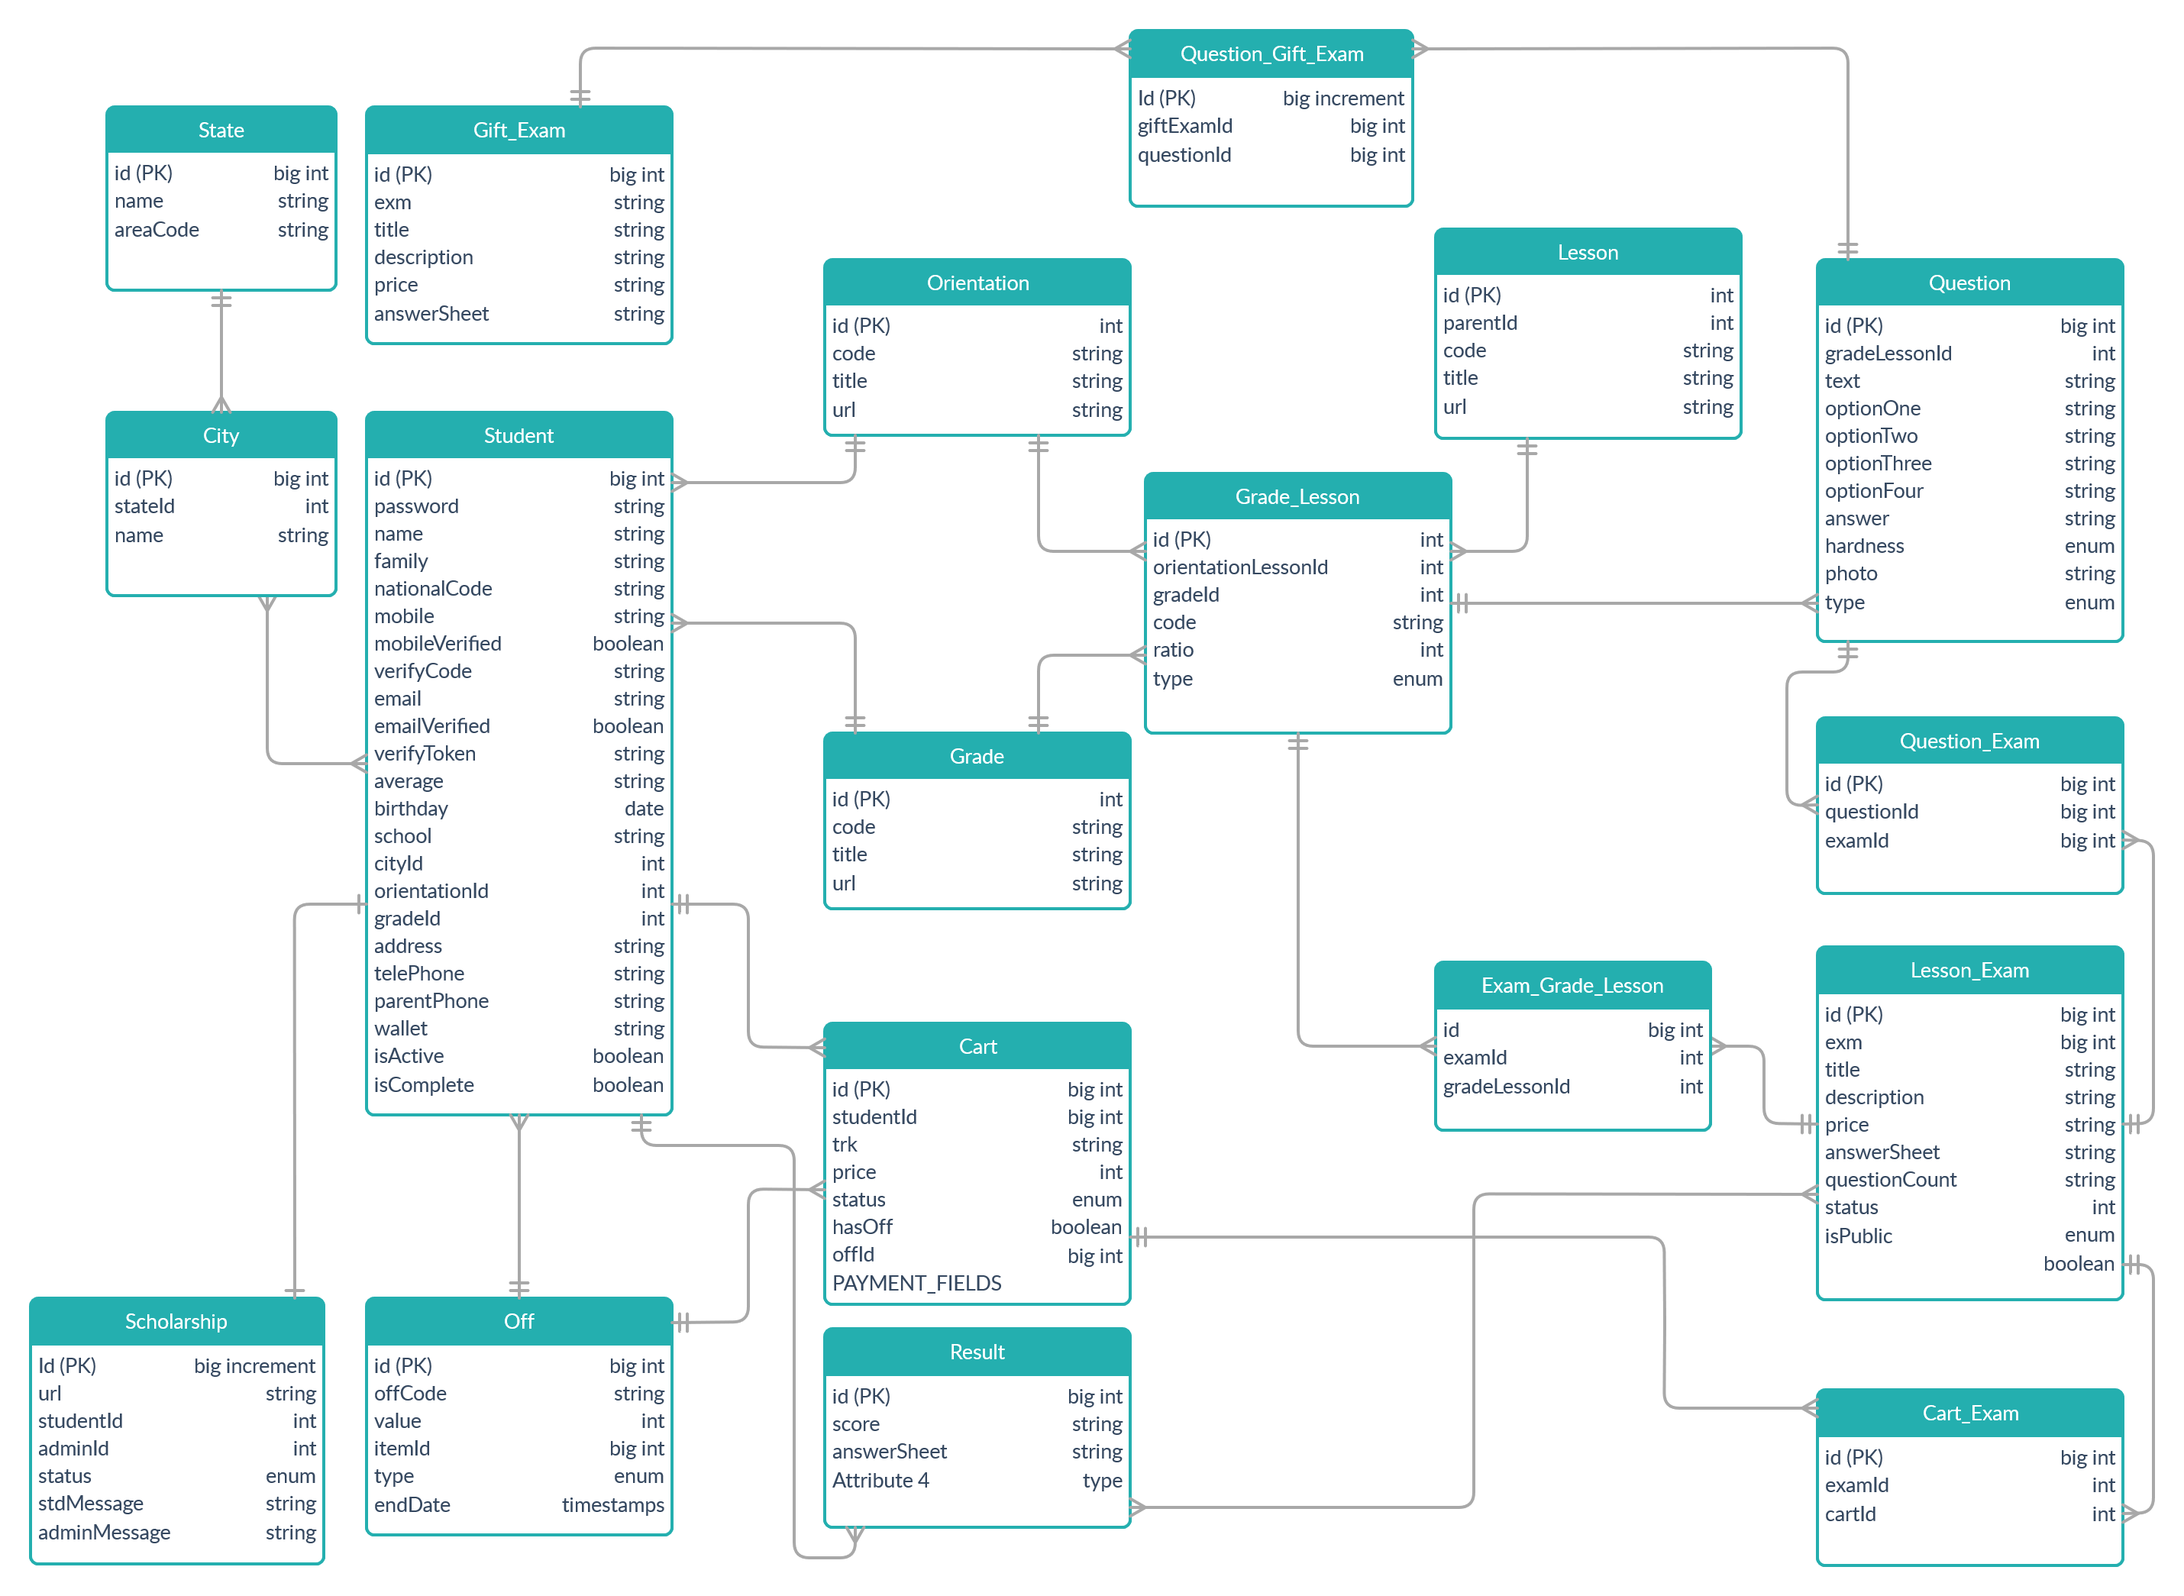
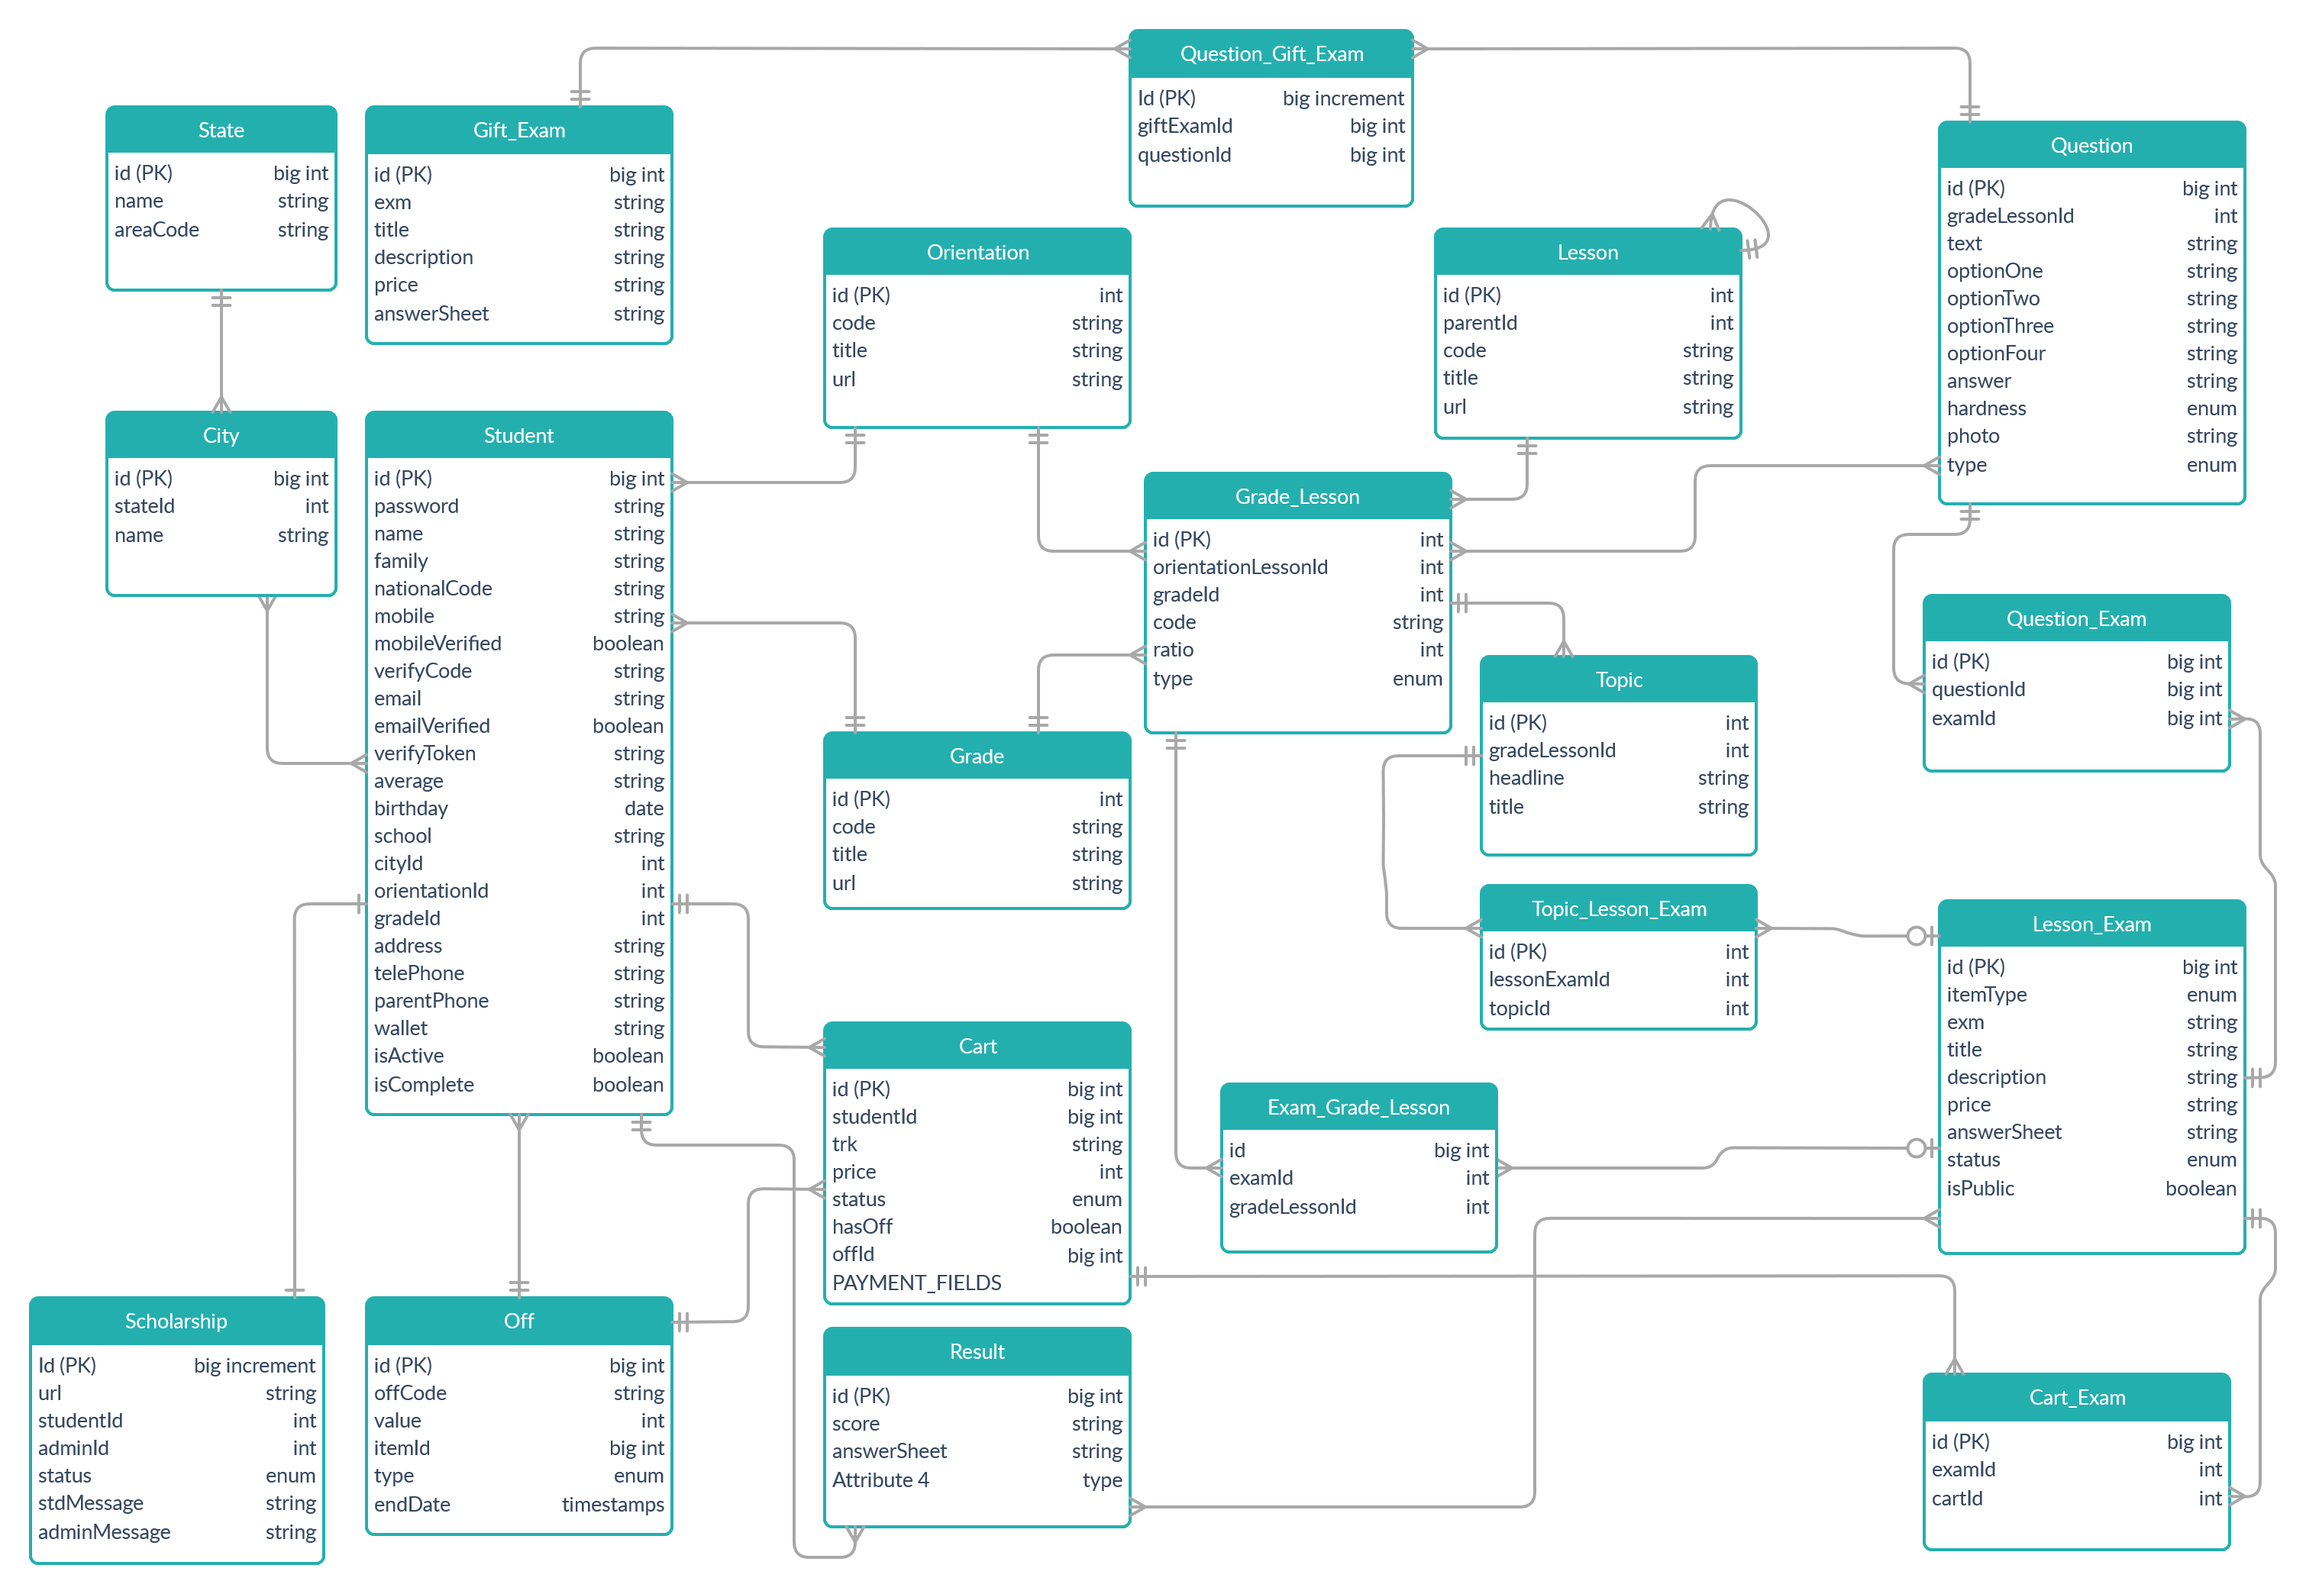
add topic for gradeLessonId = 1

diff --git a/database/seeds/TopicTableSeeder.php b/database/seeds/TopicTableSeeder.php
@@ -1,0 +1,177 @@
+<?php
+
+use Illuminate\Database\Seeder;
+use App\model\Topic;
+
+
+class TopicTableSeeder extends Seeder
+{
+	/**
+	 * Run the database seeds.
+	 *
+	 * @return void
+	 */
+	public function run()
+	{
+		//farsi 10
+
+		//id 1
+		$topic                = new Topic();
+		$topic->gradeLessonId = 1;
+		$topic->headLine      = 'ستایش';
+		$topic->title         = 'به نام کردگار';
+		$topic->save();
+
+
+		//id 2
+		$topic                = new Topic();
+		$topic->gradeLessonId = 1;
+		$topic->headLine      = 'فصل یکم: ادبیات تعلیمی';
+		$topic->title         = 'درس یکم: چشمه';
+		$topic->save();
+
+
+		//id 3
+		$topic                = new Topic();
+		$topic->gradeLessonId = 1;
+		$topic->headLine      = 'فصل یکم: ادبیات تعلیمی';
+		$topic->title         = 'درس دوم : از آموختن، ننگ مدار';
+		$topic->save();
+
+
+		//id 4
+		$topic                = new Topic();
+		$topic->gradeLessonId = 1;
+		$topic->headLine      = 'فصل دوم: ادبیات سفر و زندگی';
+		$topic->title         = 'درس سوم: سفر به بصره';
+		$topic->save();
+
+
+		//id 5
+		$topic                = new Topic();
+		$topic->gradeLessonId = 1;
+		$topic->headLine      = 'فصل دوم: ادبیات سفر و زندگی';
+		$topic->title         = 'درس چهارم: درس آزاد (ادبیات بومی 1)';
+		$topic->save();
+
+
+		//id 6
+		$topic                = new Topic();
+		$topic->gradeLessonId = 1;
+		$topic->headLine      = 'فصل دوم: ادبیات سفر و زندگی';
+		$topic->title         = 'درس پنجم: کلاس نقّاشی';
+		$topic->save();
+
+
+		//id 7
+		$topic                = new Topic();
+		$topic->gradeLessonId = 1;
+		$topic->headLine      = 'فصل سوم: ادبیات غنایی';
+		$topic->title         = 'درس ششم: مهر و وفا';
+		$topic->save();
+
+
+		//id 8
+		$topic                = new Topic();
+		$topic->gradeLessonId = 1;
+		$topic->headLine      = 'فصل سوم: ادبیات غنایی';
+		$topic->title         = 'درس هفتم: جمال و کمال';
+		$topic->save();
+
+
+		//id 9
+		$topic                = new Topic();
+		$topic->gradeLessonId = 1;
+		$topic->headLine      = 'فصل چهارم: ادبیات پایداری';
+		$topic->title         = 'درس هشتم: پاسداری از حقیقت';
+		$topic->save();
+
+
+		//id 10
+		$topic                = new Topic();
+		$topic->gradeLessonId = 1;
+		$topic->headLine      = 'فصل چهارم: ادبیات پایداری';
+		$topic->title         = 'درس نهم: بیداد ظالمان';
+		$topic->save();
+
+
+		//id 11
+		$topic                = new Topic();
+		$topic->gradeLessonId = 1;
+		$topic->headLine      = 'فصل پنجم: ادبیات انقلاب اسلامی';
+		$topic->title         = 'درس دهم: دریادلان صف شکن';
+		$topic->save();
+
+
+		//id 12
+		$topic                = new Topic();
+		$topic->gradeLessonId = 1;
+		$topic->headLine      = 'فصل پنجم: ادبیات انقلاب اسلامی';
+		$topic->title         = 'درس یازدهم: خاک آزادگان';
+		$topic->save();
+
+
+		//id 13
+		$topic                = new Topic();
+		$topic->gradeLessonId = 1;
+		$topic->headLine      = 'فصل ششم: ادبیات حماسی';
+		$topic->title         = 'درس دوازدهم: رستم و اشکبوس';
+		$topic->save();
+
+
+		//id 14
+		$topic                = new Topic();
+		$topic->gradeLessonId = 1;
+		$topic->headLine      = 'فصل ششم: ادبیات حماسی';
+		$topic->title         = 'درس سیزدهم: گُردآفرید';
+		$topic->save();
+
+
+		//id 15
+		$topic                = new Topic();
+		$topic->gradeLessonId = 1;
+		$topic->headLine      = 'فصل هفتم: ادبیات داستانی';
+		$topic->title         = 'درس چهاردهم: طوطی و بقّال';
+		$topic->save();
+
+
+		//id 16
+		$topic                = new Topic();
+		$topic->gradeLessonId = 1;
+		$topic->headLine      = 'فصل هفتم: ادبیات داستانی';
+		$topic->title         = 'درس پانزدهم: درس آزاد (ادبیات بومی ٢)';
+		$topic->save();
+
+
+		//id 17
+		$topic                = new Topic();
+		$topic->gradeLessonId = 1;
+		$topic->headLine      = 'فصل هفتم: ادبیات داستانی';
+		$topic->title         = 'درس شانزدهم: خسرو';
+		$topic->save();
+
+
+		//id 18
+		$topic                = new Topic();
+		$topic->gradeLessonId = 1;
+		$topic->headLine      = 'فصل هشتم: ادبیات جهان';
+		$topic->title         = 'درس هفدهم: سپیده دم';
+		$topic->save();
+
+
+		//id 19
+		$topic                = new Topic();
+		$topic->gradeLessonId = 1;
+		$topic->headLine      = 'فصل هشتم: ادبیات جهان';
+		$topic->title         = 'درس هجدهم: عظمتِ نگاه';
+		$topic->save();
+
+
+		//id 20
+		$topic                = new Topic();
+		$topic->gradeLessonId = 1;
+		$topic->headLine      = 'نیایش';
+		$topic->title         = 'الهی';
+		$topic->save();
+	}
+}

diff --git a/database/migrations/2019_08_10_132304_create_lesson_exam_table.php b/database/migrations/2019_08_10_132304_create_lesson_exam_table.php
@@ -17,13 +17,13 @@ class CreateLessonExamTable extends Migration
 		Schema::create('lesson_exam', function(Blueprint $table)
 		{
 			$table->bigIncrements('id');
+			$table->enum('itemType', ['LESSON', 'TOPIC']);
 			$table->string('exm')->nullable();
 			$table->string('title');
 			$table->string('description')->nullable();
 			$table->integer('price')->default(0);
 			$table->string('answerSheet')->nullable();
-			$table->bigInteger('questionCount')->default(0);
-			$table->enum('status',['COMPLETE','IN-QUESTION','IN-COMPLETE']);
+			$table->enum('status', ['COMPLETE', 'IN-QUESTION', 'IN-COMPLETE']);
 			$table->boolean('isPublic')->default(false);
 			$table->timestamps();
 			$table->softDeletes();

diff --git a/database/migrations/2019_09_15_134756_create_topic_table.php b/database/migrations/2019_09_15_134756_create_topic_table.php
@@ -1,0 +1,39 @@
+<?php
+
+use Illuminate\Support\Facades\Schema;
+use Illuminate\Database\Schema\Blueprint;
+use Illuminate\Database\Migrations\Migration;
+
+
+class CreateTopicTable extends Migration
+{
+	/**
+	 * Run the migrations.
+	 *
+	 * @return void
+	 */
+	public function up()
+	{
+		Schema::create('topic', function(Blueprint $table)
+		{
+			$table->bigIncrements('id');
+			$table->integer('gradeLessonId');
+			$table->string('headLine')->nullable();
+			$table->string('title');
+			$table->timestamps();
+			$table->softDeletes();
+		});
+	}
+
+
+
+	/**
+	 * Reverse the migrations.
+	 *
+	 * @return void
+	 */
+	public function down()
+	{
+		Schema::dropIfExists('topic');
+	}
+}

diff --git a/app/model/Topic.php b/app/model/Topic.php
@@ -1,0 +1,37 @@
+<?php
+
+namespace App\model;
+
+use Illuminate\Database\Eloquent\Model;
+use Illuminate\Database\Eloquent\SoftDeletes;
+
+
+/**
+ * @property \Carbon\Carbon $created_at
+ * @property \Carbon\Carbon $updated_at
+ * @property \Carbon\Carbon $deleted_at
+ * @property int $id
+ * @property int $gradeLessonId
+ * @property string $headLine
+ * @property string $title
+ */
+class Topic extends Model
+{
+	use SoftDeletes;
+
+	protected $table = 'topic';
+
+
+
+	public function gradeLesson()
+	{
+		return $this->belongsTo(GradeLesson::class, 'gradeLessonId');
+	}
+
+
+
+	public function topicLessonExams()
+	{
+		return $this->hasMany(TopicLessonExam::class, 'topicId');
+	}
+}

diff --git a/database/migrations/2019_09_15_135112_create_topic_lesson_exam_table.php b/database/migrations/2019_09_15_135112_create_topic_lesson_exam_table.php
@@ -1,0 +1,38 @@
+<?php
+
+use Illuminate\Support\Facades\Schema;
+use Illuminate\Database\Schema\Blueprint;
+use Illuminate\Database\Migrations\Migration;
+
+
+class CreateTopicLessonExamTable extends Migration
+{
+	/**
+	 * Run the migrations.
+	 *
+	 * @return void
+	 */
+	public function up()
+	{
+		Schema::create('topic_lesson_exam', function(Blueprint $table)
+		{
+			$table->bigIncrements('id');
+			$table->integer('lessonExamId');
+			$table->integer('topicId');
+			$table->timestamps();
+			$table->softDeletes();
+		});
+	}
+
+
+
+	/**
+	 * Reverse the migrations.
+	 *
+	 * @return void
+	 */
+	public function down()
+	{
+		Schema::dropIfExists('topic_lesson_exam');
+	}
+}

diff --git a/app/model/TopicLessonExam.php b/app/model/TopicLessonExam.php
@@ -1,0 +1,29 @@
+<?php
+
+namespace App\model;
+
+use Illuminate\Database\Eloquent\Model;
+use Illuminate\Database\Eloquent\SoftDeletes;
+
+
+/**
+ * @property \Carbon\Carbon $created_at
+ * @property \Carbon\Carbon $updated_at
+ * @property \Carbon\Carbon $deleted_at
+ * @property int $id
+ * @property int $lessonExamId
+ * @property int $topicId
+ */
+class TopicLessonExam extends Model
+{
+    use SoftDeletes;
+
+    protected $table = 'topic_lesson_exam';
+
+
+
+	public function topic()
+	{
+		return $this->belongsTo(Topic::class,'topicId');
+    }
+}

diff --git a/routes/web.php b/routes/web.php
@@ -184,9 +184,9 @@ Route::get('/test', function()
 {
 
 	$lesson = \App\model\Lesson::query()->find(17);
-	$gradeLesson = \App\model\GradeLesson::query()->find(45);
+	$gradeLesson = \App\model\GradeLesson::query()->find(1);
 
 
-	return $gradeLesson;
+	return $gradeLesson->topics;
 
 })->name('test');

diff --git a/app/model/LessonExam.php b/app/model/LessonExam.php
@@ -11,6 +11,7 @@ use Illuminate\Support\Facades\Storage;
  * @property \Carbon\Carbon $created_at
  * @property \Carbon\Carbon $updated_at
  * @property int $id
+ * @property string $itemType
  * @property string $exm
  * @property string $title
  * @property string $description

diff --git a/app/model/GradeLesson.php b/app/model/GradeLesson.php
@@ -105,4 +105,11 @@ class GradeLesson extends Model
 	{
 		return $this->hasMany(Question::class, 'gradeLessonId');
 	}
+
+
+
+	public function topics()
+	{
+		return $this->hasMany(Topic::class, 'gradeLessonId');
+	}
 }

diff --git a/database/seeds/DatabaseSeeder.php b/database/seeds/DatabaseSeeder.php
@@ -21,6 +21,7 @@ class DatabaseSeeder extends Seeder
 			GradeTableSeeder::class,
             LessonTableSeeder::class,
 			GradeLessonTableSeeder::class,
+			TopicTableSeeder::class,
 
 		]);
 	}
